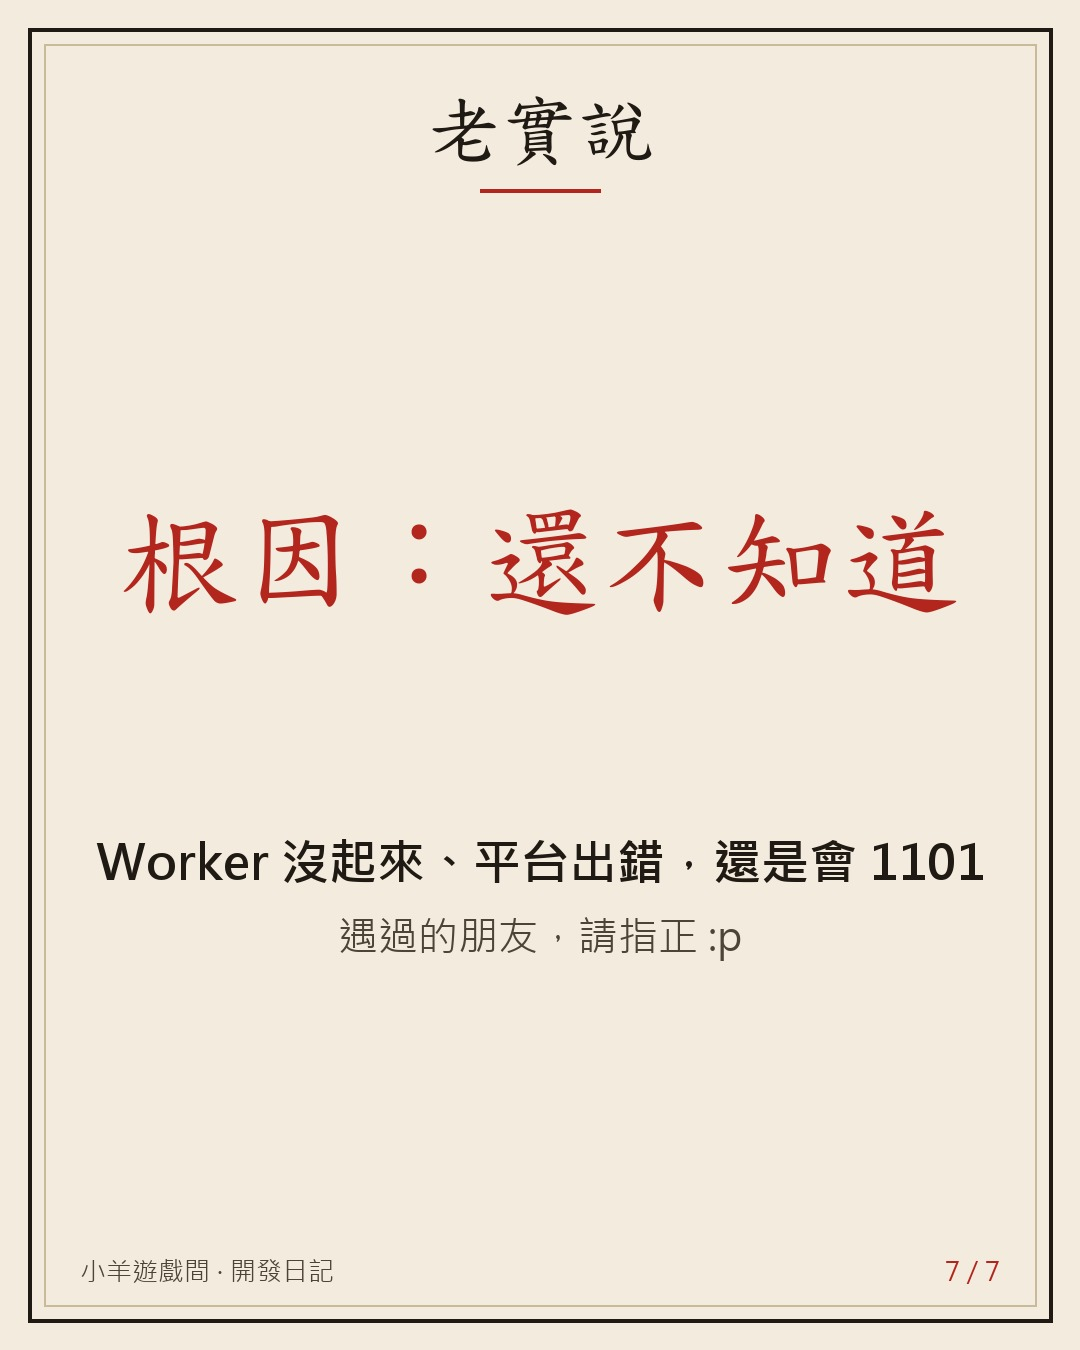
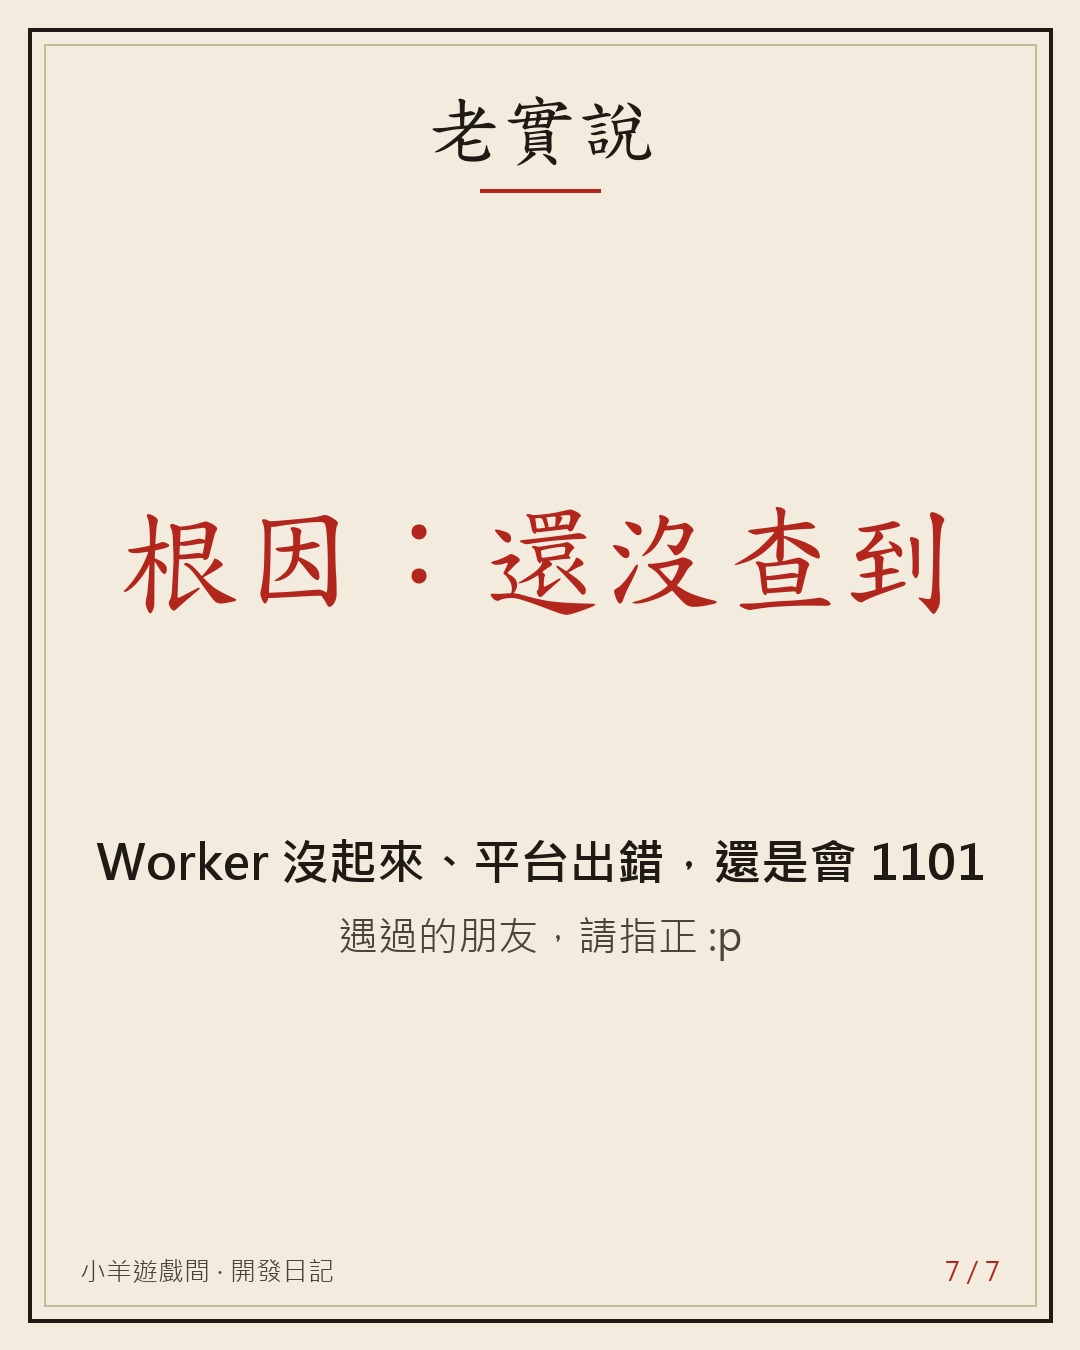
vault backup: 2026-11-03 20:06:45

Changed region(s): [[0.55, 0.3733, 0.7639, 0.4667], [0.7944, 0.3733, 0.8861, 0.4667]]

diff --git a/Projects/auto promotion/posts/38.md b/Projects/auto promotion/posts/38.md
@@ -1,0 +1,153 @@
+---
+id: 38
+type: devnote
+game: covervote
+topic: "蓋牌投票箱：10/22 深夜所有 API 回 Cloudflare error code 1101、幾分鐘自己好（#47）——brief 猜 D1 暫時失敗；BE 指出 taoyuan health 不碰 D1（桃園沒段落）也 1101 → 猜測不成立，當時也沒有部署；本機空 D1：舊程式 stats 500 帶 stack trace、taoyuan 200；修法：任何例外 503 {error:unavailable}、retry-after 30、log 一行遮 IP／段落 id／候選人姓名；計數一次 incrMany（D1 batch）不寫一半；自檢舊程式 3 過 7 紅 → 11 過 0 紅、5 次證偽；開單到關單 7 分鐘；根因至今未知，isolate 起不來或平台錯誤仍會 1101"
+status: 待發
+created: 2026-11-04 12:30
+score: 8.0
+---
+# 所有 API 都回同一行字：error code: 1101
+
+## Threads
+### 1
+我的遊戲網站有幾分鐘，每個資料請求都只回一行英文：
+
+error code: 1101
+
+然後它自己好了。
+根因，到今天還沒查到。
+
+《蓋牌投票箱》是把候選人名字蓋起來、只看政見猜是誰的網頁小遊戲。10/22 深夜，AI 在查統計時發現：統計、遮蔽健康度（檢查名字有沒有真的蓋住）……查到的 /api/ 網址都壞了，網頁本身還開得了。
+
+自己好的 bug，最可怕 👇
+![[38/01.jpg]]
+### 2
+Cloudflare 的說明：1101 通常是 Worker（跑在 Cloudflare 上的那段伺服器程式）執行時丟出一個錯，沒有人接住。
+
+Cloudflare 只好回一頁錯誤，不是遊戲看得懂的資料。
+翻程式一看，Worker 入口一個 try/catch 都沒有 orz
+
+開單時寫下的猜測是：資料庫（D1）暫時失敗或逾時。
+很合理，對吧？
+接單的 AI 看完，只回了一句：這個猜測說不通。
+![[38/02.jpg]]
+### 3
+為什麼？壞掉的網址裡，有一個是桃園的遮蔽健康度。桃園還沒收錄任何政見段落，那個請求要讀的東西是空的——一次都不碰資料庫。
+
+它在本機接一個空的資料庫試：
+・台北統計 → 500，還把錯誤和 stack trace 原樣吐給使用者
+・桃園健康度 → 200，正常
+
+資料庫壞了，桃園照樣會好。線上桃園卻也 1101，錯就不在資料庫那段。
+再查：那時也沒有在部署，上一次部署是好幾個小時前。
+![[38/03.jpg]]
+### 4
+根因不知道，先把傷口包好。
+
+① 任何例外都回 503 和一小段 JSON：{"error":"unavailable"}。不再把錯誤內容吐給使用者。
+② log 也要遮：只印一行錯誤類別和訊息，先遮掉 IP、段落編號、候選人的名字。錯誤訊息裡什麼都可能有，我不想讓 log 變成另一個外洩的地方。
+
+前端也查過：送出一局結果時遇到 503，就安靜跳過，那一局不計；健康度頁會顯示錯誤訊息。
+![[38/04.jpg]]
+### 5
+③ 壞的時候，不能寫一半。
+
+一局要加好幾個計數。舊程式留了一條退路：沒有「一次寫完」的功能時，就一筆一筆加。萬一走到那條路，第二筆失敗時第一筆已經寫進去了，玩家卻拿到「錯誤」。
+
+現在一局的所有計數一次寫進去（D1 batch，一個交易），全成功或全不算，退路直接拿掉。
+剩一個縫：交易寫完、回應才失敗，那一局會算到，玩家卻看到錯誤。
+前端一局只送一次，所以也不會重送、算兩次。
+![[38/05.jpg]]
+### 6
+怎麼證明它有用？
+
+先做一個會壞的資料庫：每次讀寫都丟錯，錯誤訊息還故意夾一個 IP 和一位候選人的名字。
+舊程式跑 10 條：3 過 7 紅，7 條都印「丟出例外（就是 1101）」。改完再加一條測入口那層，11 條全過。
+
+再做 5 次證偽，一次只拿掉一個保護：拿掉 catch、改回一筆一筆寫、log 全不遮、只不遮名字、拿掉入口那層。每一次都有測試變紅。
+GitHub 上開單到關單（含部署）7 分鐘。
+![[38/06.jpg]]
+### 7
+老實說：根因還沒查到，要看 Cloudflare 後台那幾分鐘的 log。這次接得住程式裡丟出的錯；如果是 Worker 本身沒起來、或 Cloudflare 那邊出錯，它擋不住，還是會 1101。做 Workers 遇過的朋友，有錯請指正 :p
+
+學到的事：開單時寫下的猜測，不是事實。
+最便宜的檢查，是找一個「照猜測不該壞、卻也壞了」的例子。桃園那一個請求，就把猜測推翻了。
+
+你遇過「自己好了」的 bug 嗎？最後有找到原因，還是就讓它去了？
+追蹤一下，我做遊戲出的包，都會這樣老實寫出來～
+![[38/07.jpg]]
+### 連結
+只看政見、不看名字，你猜得出這段是誰寫的嗎？（它壞過一次，現在好好的）👉 https://games.csiesheep.com/covervote/
+
+## Instagram
+我的遊戲網站有幾分鐘，每個資料請求都只回一行英文：error code: 1101。然後它自己好了。
+
+《蓋牌投票箱》是把候選人名字蓋起來、只看政見猜是誰的網頁小遊戲。開單猜是資料庫暫時失敗；接單的 AI 說不通：壞掉的網址裡有桃園，桃園還沒有政見段落，那個請求根本不碰資料庫。
+
+根因不知道，先把傷口包好：例外回 503、log 遮掉 IP 和候選人名字、一局的計數一次寫完不寫一半。舊程式測試 7 紅，改完全過。
+
+根因到今天還沒查到 orz 你遇過自己好的 bug 嗎？👇
+
+連結在主頁
+#蓋牌投票箱 #開發日記 #網頁遊戲 #Cloudflare #小羊遊戲間
+
+卡片：![[38/01.jpg]] ![[38/02.jpg]] ![[38/03.jpg]] ![[38/04.jpg]] ![[38/05.jpg]] ![[38/06.jpg]] ![[38/07.jpg]]
+
+## Facebook
+🛠 開發日記｜所有 API 都只回一行字：error code: 1101
+
+我的遊戲網站有幾分鐘，每個資料請求都只回一行英文「error code: 1101」。然後它自己好了。根因，到今天還沒查到。
+
+《蓋牌投票箱》是把候選人名字蓋起來、只看政見猜是誰的網頁小遊戲。10/22 深夜，AI 在查統計時發現：查到的 /covervote/api/ 網址（統計、遮蔽健康度——檢查名字有沒有真的蓋住……）都壞了，網頁本身還開得了。
+
+🔍 1101 是什麼
+照 Cloudflare 的說明，1101 通常是 Worker（跑在 Cloudflare 上的伺服器程式）執行時丟出一個錯，沒有人接住，它只好回一頁錯誤。那時 Worker 入口一個 try/catch 都沒有 orz 開單時寫下的猜測：資料庫（D1）暫時失敗或逾時。
+
+🤔 猜測被推翻
+接單的 AI 回了一句：這個猜測說不通。
+壞掉的網址裡有一個是桃園的遮蔽健康度，桃園還沒收錄任何政見段落，那個請求一次都不碰資料庫。
+它在本機接一個空的資料庫試：台北統計回 500、還把錯誤和 stack trace 原樣吐給使用者；桃園健康度回 200，正常。
+資料庫壞了桃園照樣會好，線上桃園卻也 1101，錯就不在資料庫那段。再查，當時也沒有在部署，上一次部署是好幾個小時前。
+
+🩹 根因不知道，先把傷口包好
+① 任何例外都回 503 和一小段 JSON {"error":"unavailable"}，不再把錯誤內容吐給使用者。前端送出一局結果時遇到 503 就安靜跳過，那一局不計；健康度頁會顯示錯誤訊息。
+② log 也要遮：只印一行錯誤類別和訊息，先遮掉 IP、段落編號、候選人的名字。錯誤訊息裡什麼都可能有，我不想讓 log 變成另一個外洩的地方。
+③ 壞的時候不能寫一半。舊程式留了一條退路：沒有「一次寫完」的功能時就一筆一筆加，萬一走到那條路，第二筆失敗時第一筆已經寫進去。現在一局的所有計數一次寫進去（D1 batch，一個交易），全成功或全不算，退路拿掉。剩一個縫：交易寫完、回應才失敗，那一局會算到，玩家卻看到錯誤。前端一局只送一次，不會重送、算兩次。
+
+✅ 測試先紅再綠
+先做一個會壞的資料庫，每次讀寫都丟錯，錯誤訊息還故意夾一個 IP 和一位候選人的名字。舊程式跑 10 條：3 過 7 紅，7 條都印「丟出例外（就是 1101）」；改完再加一條測入口那層，11 條全過。再做 5 次證偽，一次只拿掉一個保護（拿掉 catch、改回一筆一筆寫、log 全不遮、只不遮名字、拿掉入口那層），每一次都有測試變紅。GitHub 上開單到關單（含部署）7 分鐘。
+
+🐛 老實說
+根因還沒查到，要看 Cloudflare 後台那幾分鐘的 log。這次接得住程式裡丟出的錯；如果是 Worker 本身沒起來、或 Cloudflare 那邊出錯，它擋不住，還是會 1101。做 Workers 遇過的朋友，有錯請指正 :p
+
+學到的事：開單時寫下的猜測，不是事實。最便宜的檢查，是找一個「照猜測不該壞、卻也壞了」的例子。桃園那一個請求，就把猜測推翻了。
+
+❓ 你遇過「自己好了」的 bug 嗎？最後有找到原因，還是就讓它去了？追蹤小羊遊戲間，我做遊戲出的包，都會這樣老實寫出來～
+
+只看政見、不看名字，你猜得出這段是誰寫的嗎？（它壞過一次，現在好好的）👉 https://games.csiesheep.com/covervote/
+
+相簿：同 Instagram 卡片（7 張）
+
+## Sources
+- GitHub csiesheep/covervote issue #47（建立 2026-10-22 15:36:03Z＝台灣 10/22 23:36，關閉 15:43:01Z＝23:43）：由來「查統計時，所有 /covervote/api/*（stats、health，連沒有段落的 taoyuan health 也是）都回 error code: 1101…幾分鐘內自己恢復…靜態頁不受影響。worker/index.js 沒有任何 try/catch。原因未知（猜：D1 暫時失敗或逾時）」；要做的：503 + {error:'unavailable'}、no-store、retry-after 30、console.error 一行不得含 IP／body／段落或候選人
+- issue #47 BE 留言（問 orchestrator）：taoyuan 在 main 上沒有段落、getMany([]) 迴圈不跑、不碰 D1；wrangler dev --local 空 D1：origin/main stats/taipei 500 帶 `Error: D1_ERROR: no such table: counters` 加 stack trace、health/taoyuan 200；剩下可能在 handleApi 外（isolate 啟動失敗、平台錯誤）
+- issue #47 BE 交付：errors_selftest.mjs 舊 api.mjs 3 過 7 紅（7 條印「丟出例外（就是 1101）」）、實作後 11 過 0 紅；5 次證偽（catch 重新丟出 7 紅；改回逐鍵 incr 1 紅「寫了一半」；log 不遮罩紅；只拿掉姓名遮罩紅；index.js catch 重新丟出紅）；incrMany = D1 db.batch 一個交易；site/api.js 503 全部安靜處理、一局只送一次（#31）
+- issue #47 orchestrator 回覆：1101 發生時沒有部署在進行，前一次部署 #46（bfc4709，10/21 21:37 PDT）在數小時前；平台層 1101 另記為未解；land 留言：線上 stats 200、POST 204，根因待 owner 後台 log
+- commits 7c40e8a（10/22 08:38 PDT）、33ecc7e（08:40）；worker/api.mjs 第 232–250 行註解與 scrub、worker/errors_selftest.mjs
+- 2026-11-04 12:2x 線上 health/taoyuan 200；repo 與 vault 裡此後沒有根因紀錄
+- Cloudflare 文件 Error 1101 https://developers.cloudflare.com/support/troubleshooting/http-status-codes/cloudflare-1xxx-errors/error-1101/ ：「typically occurs when a Cloudflare Worker encounters a runtime JavaScript exception」
+- 「10/22 深夜」：issue 建立於台灣 23:36，由來寫查統計時發現、幾分鐘內恢復（發生在開單前不久）
+- 「10 條 → 11 條」：交付寫舊 api.mjs 3 過 7 紅；第 11 條是 index.js 那層，另行先紅過
+- 「不重送」：site/ 一局只送一次（#31，先記 sent 再送）；retry-after 前端不看，所以貼文不寫「30 秒後再試」
+- 「根因還沒查到」：issue 寫「根因待 owner 後台 log」，repo 與 vault 到 11/4 沒有根因紀錄（未向 owner 確認）
+- 前端 503：BE 讀 site/api.js——postGuess／postPlay catch 不計、health 顯示 errorBox、class 顯示錯誤、stats 設 null
+- 遮蔽健康度：worker/api.mjs 註解——猜中率高於隨機（1／候選人數）加門檻就標記，即名字有沒有蓋住
+
+## 打磨紀錄
+| 回合 | 1 | 2 | 3 | 4 | 5 | 6 | 7 | 8 | 9 | 10 | 平均 | 主要修改 |
+|---|---|---|---|---|---|---|---|---|---|---|---|---|
+| 1 | 7 | 9 | 8 | 8 | 8 | 7 | 7 | 8 | 7 | 9 | 7.8 | 未達標：鉤子先講「自己好了、到今天不知道」；拿掉「叫瀏覽器 30 秒後再試」（前端不看 retry-after）；逐鍵寫是舊程式的退路不是已發生的事；10→11 條說明；「上線」改「開單到關單（含部署）」；補 Cloudflare 1101 官方說明；batch 拆成第 5 則配 05.jpg；結尾只留一個問題、追蹤理由改實話；連結句改成銜接故事、去掉「投給誰」 |
+| 2 | 8 | 9 | 8 | 9 | 8 | 7 | 8 | 7 | 7 | 9 | 8.0 | 達標（ready）。評後套用事實修正：前端 503 只有送出結果時安靜跳過、batch 剩「寫完才回失敗」一個縫、證偽是 log 全不遮、「所有 API」改「查到的」、根因改「還沒查到」並標未向 owner 確認；鉤子改「資料請求」；遮蔽健康度補說明；卡 1 換成 error code: 1101 大字卡；連結句改問句。套用後未再評分 |
+
+## 發文紀錄

diff --git a/Projects/auto promotion/2026-11-04.md b/Projects/auto promotion/2026-11-04.md
@@ -92,3 +92,5 @@
 | 11:53 | promo-producer | 進度 | 第 37 篇《機甲大戰·台北》草稿完成（實玩 7 局、陶朱隱園一發 352 億），開始評分 |  |
 | 11:55 | promo-producer | 完成 | 第 37 篇熱門遊戲介紹《機甲大戰·台北》待發（posts/37，評分 8.4，7 張卡）；存貨：卡 2、生在中國 Reel 3、鬼唱詩 4（待發 3／待審 1／要修改 0）、貼文 熱門 4＋日記 3（11:30 剛發掉一篇，下輪補日記） |  |
 | 11:59 | promo-producer | 開始 | 存貨：分享卡 2、生在中國 Reel 3、鬼唱詩 4（待發 3／待審 1／要修改 0）、貼文 熱門 4／開發日記 3；ComfyUI 正常；審稿無待推、無要修改。本輪寫一篇開發日記。 |  |
+| 12:02 | promo-producer | 進度 | 開發日記 #38 題目：蓋牌投票箱 1101 之謎（#47），卡片 7 張已出，送評審 |  |
+| 12:06 | promo-producer | 完成 | 開發日記 #38「所有資料請求都只回一行字：error code: 1101」（蓋牌投票箱 #47）待發，posts/38，兩輪評審 7.8 → 8.0，套用事實修正；存貨：分享卡 2、Reel 3、鬼唱詩 4（待發 3／待審 1／要修改 0）、貼文 熱門 4／開發日記 4 |  |
